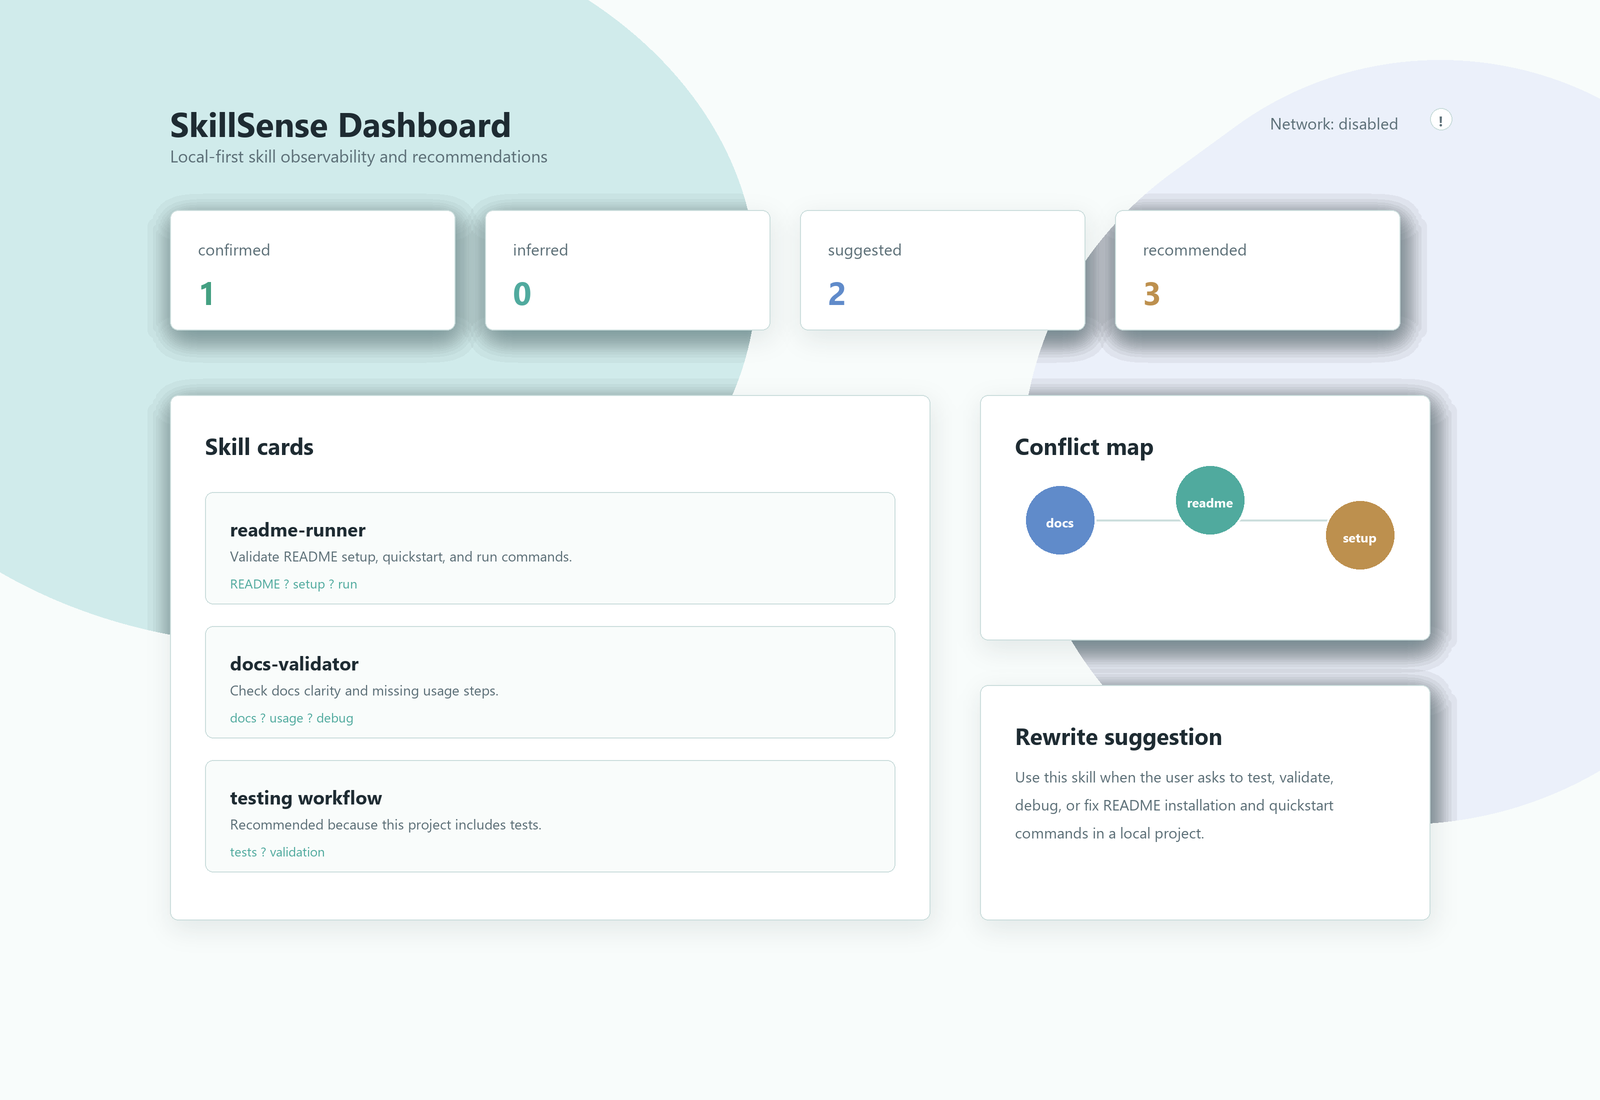
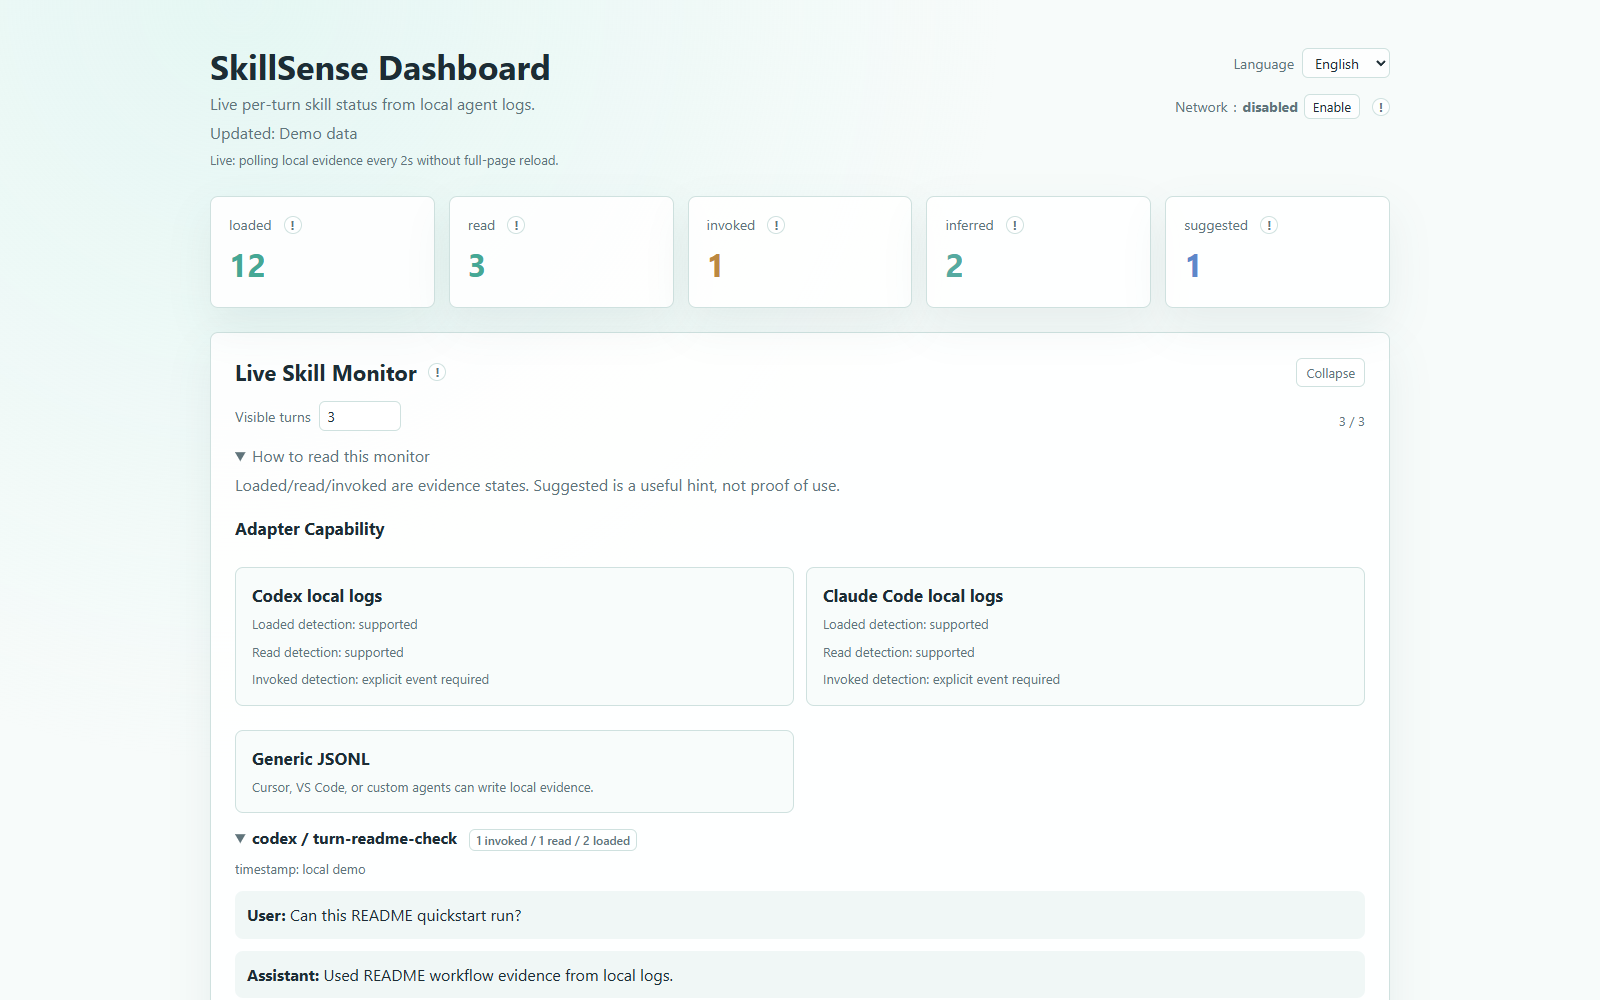
Refresh README visuals

diff --git a/README.md b/README.md
@@ -10,7 +10,7 @@ SkillSense gives you a local receipt. It watches agent logs and turns them into 
 
 No cloud tracing is required. No API key is required. Your generated state stays under `.skillsense/`, which is ignored by Git.
 
-![SkillSense dashboard](assets/skillsense-dashboard.png)
+![SkillSense concept: local evidence for agent skills](assets/skillsense-concept.png)
 
 ## Why SkillSense Exists
 
@@ -56,6 +56,8 @@ http://127.0.0.1:8765/dashboard.html
 `skillsense serve --interval 2` serves the dashboard at `http://127.0.0.1:8765/dashboard.html`. That address is localhost: it points to the machine running SkillSense, not to a public server.
 
 The monitor is the main product surface. It shows recent turns, the evidence tied to those turns, and a folded `Trigger Diagnostics` area for each turn. Diagnostics use the local skill index and existing evidence only; they do not call an LLM.
+
+![SkillSense live dashboard with demo evidence](assets/skillsense-dashboard.png)
 
 Dashboard hierarchy:
 